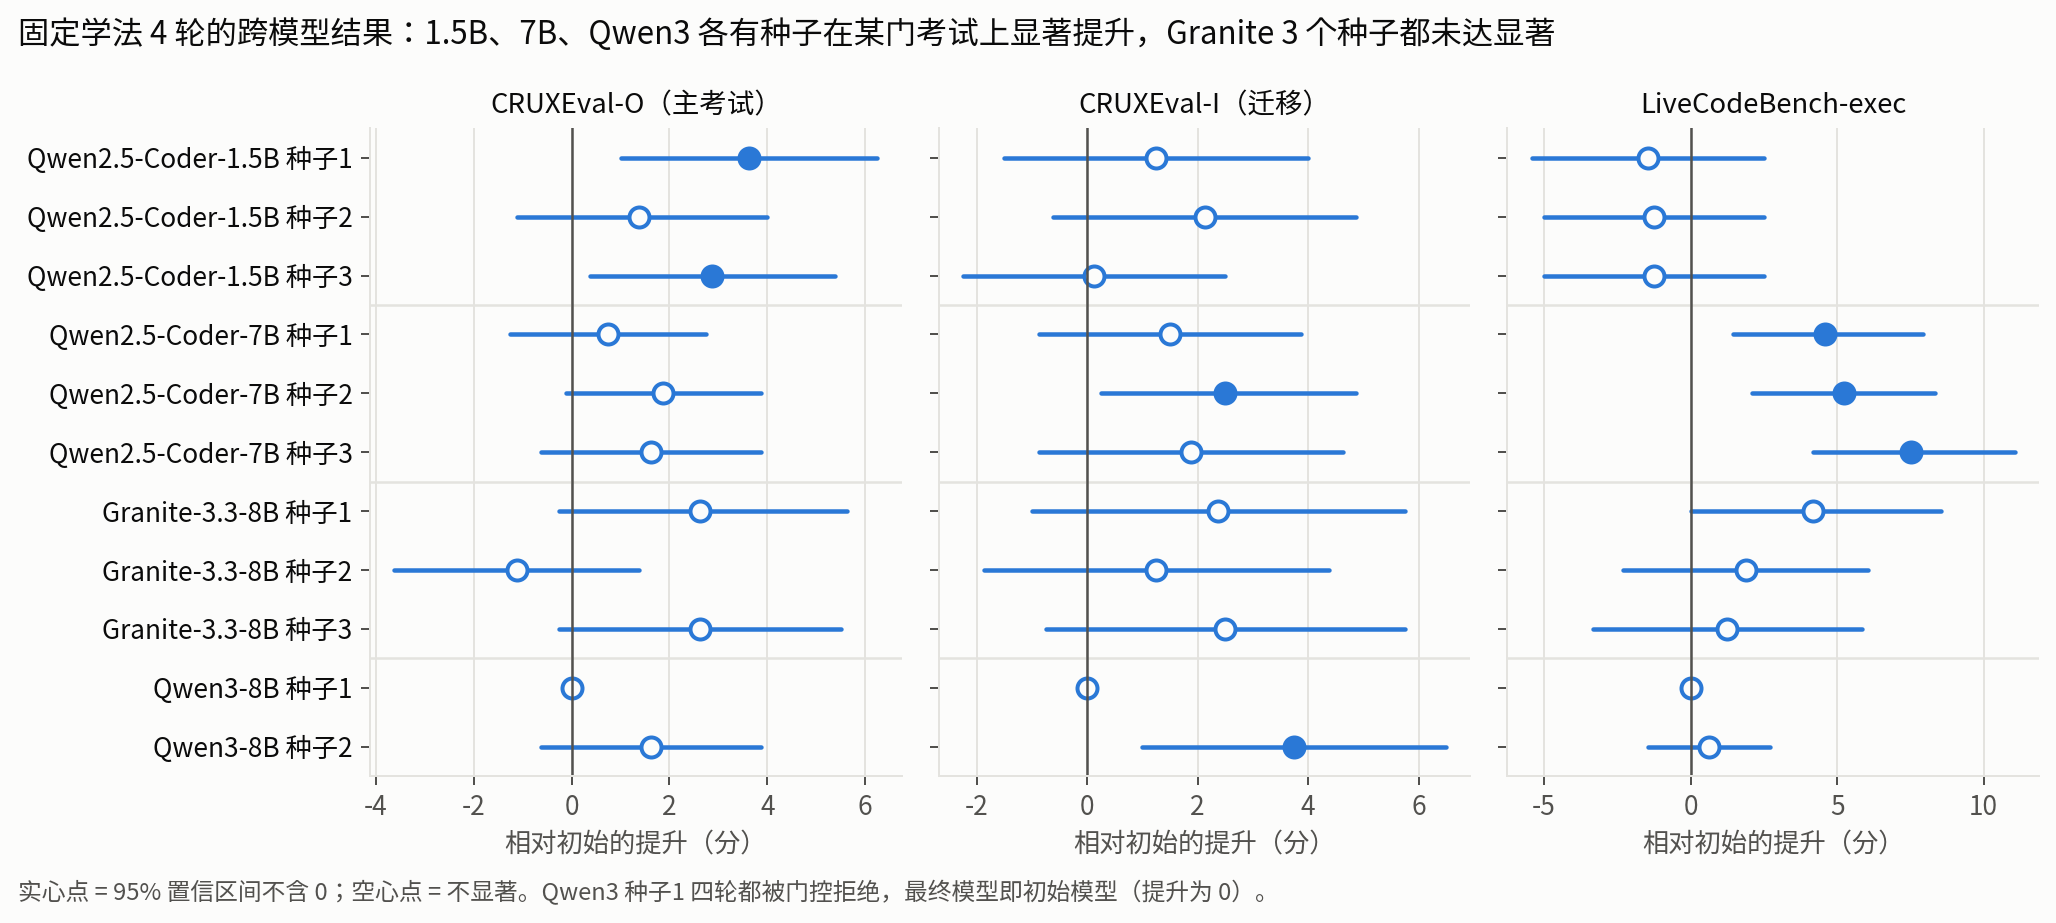
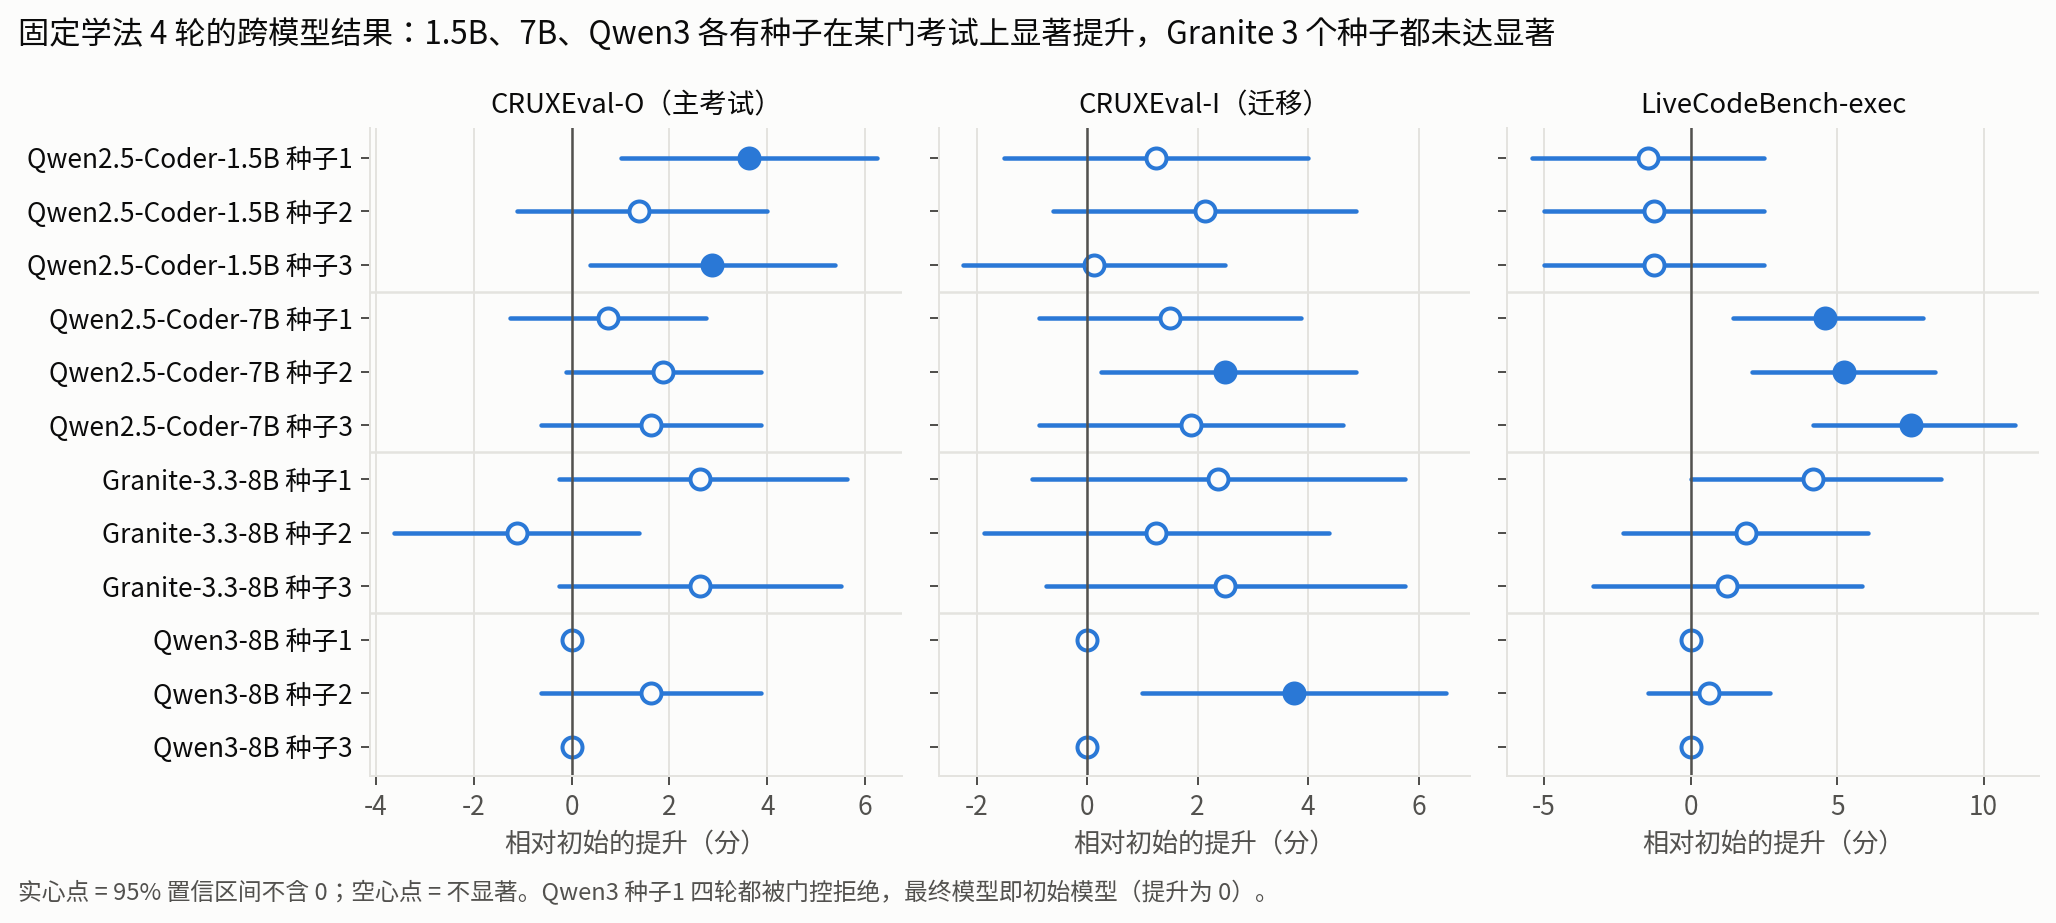
VLA rollout: rerun a phase whose workers ran out of GPU memory; Qwen3-8B fixed s3
On 10-27 another vLLM service started on GPU 0 while a VLA rollout phase was running (admission had
passed 6 min earlier); every worker there hit CUDA OOM and the run was lost in its last round.
_phase_retrying moves the failed attempt's files aside, re-admits the GPUs and reruns the phase
(oom_retries=2); non-OOM failures still raise. Three unit tests. vla_goal_fixed_s1 requeued as _r4.

Qwen3-8B fixed s3: all 4 rounds rejected by the gate (84.8 vs 82.6-84.2), final = initial.
Pooled 3 seeds: CRUX-I +1.25 [0.29, 2.17], CRUX-O +0.54, LCB +0.21 (bar not met; interim).

diff --git a/test_rsi_core.py b/test_rsi_core.py
@@ -11,6 +11,7 @@ from rsi.core.archive import Archive, Node, program_diff
 from rsi.core.curation import curate, shuffle_feedback
 from rsi.core.engine import Engine, EngineConfig
 from rsi.core.gpu import occupied
+import rsi.backends.openvla.backend as vla_backend
 from rsi.core.types import Attempt, Case, EvalRecord, Program, Receipt, Version
 from rsi.domains.code_wm.domain import CodeWorldModelDomain
 from rsi.meta.proposers import CODE_WM_COUPLING, FixedProgram, NumericSearch
@@ -198,6 +199,70 @@ class GpuAdmissionTests(unittest.TestCase):
         self.assertFalse(occupied((7425, 0)))      # parked CI context, idle
         self.assertTrue(occupied((8753, 94)))      # another user's running job
         self.assertTrue(occupied((12000, 0)))      # too large to share even if idle
+
+
+class VLAPhaseRetryTests(unittest.TestCase):
+    def _backend(self, tmp):
+        cfg = vla_backend.VLAConfig(checkpoint="ck", python="py", openvla_root="root", workdir=tmp)
+        backend = vla_backend.VLABackend(cfg)
+        call = backend._call_dir("rollout")
+        return backend, call
+
+    def _fake_phase(self, call, failures):
+        attempts = []
+
+        def phase(call_, tag, *args):
+            n = len(attempts)
+            attempts.append(n)
+            eps = call / "episodes"
+            eps.mkdir(exist_ok=True)
+            (eps / f"results-{100 + n}.jsonl").write_text(json.dumps({"id": "e1", "attempt": n}) + "\n")
+            (eps / "e1.npz").write_text(f"attempt {n}")
+            if n < len(failures):
+                log = call / f"log-{tag}0.txt"
+                log.write_text(failures[n])
+                raise RuntimeError(f"parallel_worker_failed:['{log}']")
+        return phase, attempts
+
+    def test_oom_phase_is_rerun_and_failed_attempt_set_aside(self):
+        with tempfile.TemporaryDirectory() as tmp:
+            backend, call = self._backend(tmp)
+            phase, attempts = self._fake_phase(call, ["torch.cuda.OutOfMemoryError: CUDA out of memory. Tried"])
+            backend._phase = phase
+            original, vla_backend.admit = vla_backend.admit, lambda gpus, gap: {"ok": True}
+            try:
+                backend._phase_retrying(call, "g")
+            finally:
+                vla_backend.admit = original
+            self.assertEqual(attempts, [0, 1])
+            kept = sorted(p.name for p in (call / "episodes").iterdir())
+            self.assertEqual(kept, ["e1.npz", "results-101.jsonl"])
+            self.assertEqual((call / "episodes" / "e1.npz").read_text(), "attempt 1")
+            self.assertEqual(sorted(p.name for p in (call / "discarded-g0").iterdir()),
+                             ["e1.npz", "log-g0.txt", "results-100.jsonl"])
+            self.assertEqual(backend.admissions[-1]["retry_of"], "g0")
+
+    def test_non_oom_failure_is_not_retried(self):
+        with tempfile.TemporaryDirectory() as tmp:
+            backend, call = self._backend(tmp)
+            phase, attempts = self._fake_phase(call, ["ValueError: bad spec"])
+            backend._phase = phase
+            with self.assertRaises(RuntimeError):
+                backend._phase_retrying(call, "s")
+            self.assertEqual(attempts, [0])
+
+    def test_gives_up_after_configured_retries(self):
+        with tempfile.TemporaryDirectory() as tmp:
+            backend, call = self._backend(tmp)
+            phase, attempts = self._fake_phase(call, ["CUDA out of memory"] * 3)
+            backend._phase = phase
+            original, vla_backend.admit = vla_backend.admit, lambda gpus, gap: {}
+            try:
+                with self.assertRaises(RuntimeError):
+                    backend._phase_retrying(call, "s")
+            finally:
+                vla_backend.admit = original
+            self.assertEqual(attempts, [0, 1, 2])
 
 
 class ProgramTests(unittest.TestCase):

diff --git a/rsi/backends/openvla/backend.py b/rsi/backends/openvla/backend.py
@@ -9,6 +9,7 @@ Update operators (``bc``, ``grpo``) come from the improvement program.
 from dataclasses import asdict, dataclass, field
 import json
 from pathlib import Path
+import re
 import time
 
 from ...core.gpu import admit, supervised, supervised_parallel
@@ -35,6 +36,7 @@ class VLAConfig:
     rollout_timeout: int = 12 * 3600
     train_timeout: int = 10 * 3600
     admission_gap: float = 30.0
+    oom_retries: int = 2               # re-admit and rerun a phase whose worker ran out of GPU memory
     env: dict = field(default_factory=dict)
 
 
@@ -90,6 +92,32 @@ class VLABackend:
             self.gpu_seconds["rollout"] = self.gpu_seconds.get("rollout", 0.0) + \
                 len(cfg.rollout_gpus) * (time.time() - started)
 
+    def _phase_retrying(self, call, tag, *args):
+        """Admission is checked before the rollout, but on a shared box another job can still take a GPU
+        while a phase is running (10-27: a vLLM server started on GPU 0 mid-phase and every worker there
+        ran out of memory, losing a run in its last round). A phase whose failed workers ran out of GPU
+        memory is rerun after a fresh admission. The failed attempt's files are moved aside first, so
+        each episode's row and trajectory come from one attempt."""
+        episodes_dir = call / "episodes"
+        for attempt in range(self.config.oom_retries + 1):
+            before = set(episodes_dir.iterdir()) if episodes_dir.exists() else set()
+            try:
+                return self._phase(call, tag, *args)
+            except RuntimeError as exc:
+                logs = re.findall(r"'([^']+)'", str(exc)) if str(exc).startswith("parallel_worker_failed") else []
+                oom = bool(logs) and all("CUDA out of memory" in Path(log).read_text(errors="replace")[-20000:]
+                                         for log in logs)
+                if not oom or attempt == self.config.oom_retries:
+                    raise
+                aside = call / f"discarded-{tag}{attempt}"
+                aside.mkdir()
+                for path in set(episodes_dir.iterdir()) - before:
+                    path.rename(aside / path.name)
+                for log in logs:
+                    Path(log).rename(aside / Path(log).name)
+                self.admissions.append(dict(admit(self.config.rollout_gpus, gap=self.config.admission_gap),
+                                            retry_of=f"{tag}{attempt}", failed_logs=logs))
+
     def rollout(self, version: Version, suite, episodes, max_steps=None):
         """Greedy episodes run unbatched (one env per process, several processes per GPU),
         which reproduces OpenVLA's batch-1 numerics exactly; batched generation flips
@@ -101,8 +129,8 @@ class VLABackend:
         self.admissions.append(admit(cfg.rollout_gpus, gap=cfg.admission_gap))
         greedy = [ep for ep in episodes if ep["mode"] == "greedy"]
         sampled = [ep for ep in episodes if ep["mode"] != "greedy"]
-        self._phase(call, "g", adapter, suite, greedy, max_steps, 1, cfg.greedy_procs_per_gpu)
-        self._phase(call, "s", adapter, suite, sampled, max_steps, cfg.n_envs, cfg.sample_procs_per_gpu)
+        self._phase_retrying(call, "g", adapter, suite, greedy, max_steps, 1, cfg.greedy_procs_per_gpu)
+        self._phase_retrying(call, "s", adapter, suite, sampled, max_steps, cfg.n_envs, cfg.sample_procs_per_gpu)
         rows = {}
         for path in (call / "episodes").glob("results-*.jsonl"):
             for line in path.open():

diff --git a/reports/progress/README.md b/reports/progress/README.md
@@ -1,4 +1,4 @@
-# RSI 框架实验进展（截至 2026-10-27 13:40 北京时间）
+# RSI 框架实验进展（截至 2026-10-27 17:20 北京时间）
 
 **三句话：**
 
@@ -7,7 +7,7 @@
 3. **跨模型初步结果：**
     - Qwen2.5-Coder-7B（3 个种子已齐）：没练过的 LiveCodeBench-exec 上三个种子都显著上涨（+4.6 / +5.2 / +7.5），种子平均 +5.8（95% 区间 +3.4 ~ +8.2）；主考试 CRUXEval-O 平均只有 +1.4，未达 +2 的达标线。
     - Granite-8B（3 个种子已齐）：三门考试的种子平均都在 +1.4 ~ +2.4 之间，置信区间都含 0，未证明提升。
-    - Qwen3-8B：种子 1 每一轮都没通过小测验，模型没有变差；种子 2 四轮都通过，CRUXEval-I 显著上涨 +3.75。
+    - Qwen3-8B（3 个种子已齐）：种子 1、3 每一轮的新版本都没通过小测验，模型保持原样、没有变差；种子 2 四轮都通过，CRUXEval-I 显著上涨 +3.75。种子平均 CRUXEval-I +1.25（95% 区间 +0.3 ~ +2.2），未达 +2 的门槛。
     - 能调学法的完整版在这三个模型上都还在跑。
 
 所有数字由 [`scripts/report/make_progress.py`](../../scripts/report/make_progress.py) 从 `results/` 直接生成，完整数据见 [tables.md](tables.md)。
@@ -49,11 +49,11 @@
 | Qwen2.5-Coder-7B：8 轮固定程序 vs 非递归（附录 4，复现 1.5B 的递归结论） | 百度 | 排队等卡 |
 | Granite-3.3-8B：固定程序种子 1、2、3；打乱反馈种子 1 | 百度 | 完成 |
 | Granite-3.3-8B：完整版种子 1、2 | 百度 | 进行中 |
-| Qwen3-8B：固定程序种子 1、2 | A800 | 完成（种子 1 四轮都未通过；种子 2 四轮都通过） |
-| Qwen3-8B：固定程序种子 3；完整版种子 1 | A800 | 进行中（完整版第 1 轮选中了新提出的学法） |
-| Qwen3-8B：完整版种子 2 | A800 | 排队 |
+| Qwen3-8B：固定程序种子 1、2、3 | A800 | 完成（种子 1、3 四轮都未通过；种子 2 四轮都通过） |
+| Qwen3-8B：完整版种子 1、2 | A800 | 进行中（种子 1 第 1 轮选中了新提出的学法） |
+| Qwen3-8B：完整版种子 3 | 百度 | 计划已上传，等卡 |
 | OpenVLA × LIBERO：两次基线（74.8% / 76.4%）、1 轮试运行 | A800 | 完成 |
-| OpenVLA × LIBERO：4 组 × 2 个种子，每组 3 轮 | A800 | 2 组进行中（因 CPU 过载重启过一次），6 组排队 |
+| OpenVLA × LIBERO：4 组 × 2 个种子，每组 3 轮 | A800 | 非递归种子 1 在做最终测试；固定程序种子 1 在第 3 轮被同机另一个服务挤爆显存而失败，已加"显存不足自动重试"并排在队首重跑；6 组排队 |
 | Meta CWM-32B | A800 | 只测了基线 |
 
 基线、各种子明细和 8 轮逐轮数据见 [tables.md](tables.md)。预注册文件在 [`docs/prereg/`](../../docs/prereg/)。

diff --git a/reports/progress/tables.md b/reports/progress/tables.md
@@ -38,6 +38,7 @@
 | Granite-3.3-8B | 3 | 46.12 | +2.62 [-0.25, +5.50] | +2.50 [-0.75, +5.75] | +1.25 [-3.34, +5.85] |
 | Qwen3-8B | 1 | 76.38 | +0.00 [+0.00, +0.00] | +0.00 [+0.00, +0.00] | +0.00 [+0.00, +0.00] |
 | Qwen3-8B | 2 | 76.50 | +1.62 [-0.62, +3.88] | +3.75 [+1.00, +6.50] | +0.63 [-1.46, +2.71] |
+| Qwen3-8B | 3 | 76.38 | +0.00 [+0.00, +0.00] | +0.00 [+0.00, +0.00] | +0.00 [+0.00, +0.00] |
 
 ## 跨模型合并：固定学法，种子平均的逐题配对差（分；括号内 95% bootstrap CI；达标 = 均值 ≥ 2 且下限 > 0）
 
@@ -47,7 +48,7 @@
 | --- | --- | --- | --- | --- | --- |
 | Qwen2.5-Coder-7B | 1,2,3 | +1.42 [-0.17, +3.00] | +1.96 [+0.17, +3.79] | +5.78 [+3.41, +8.21] 达标 | 全部种子 |
 | Granite-3.3-8B | 1,2,3 | +1.38 [-0.83, +3.71] | +2.04 [-0.63, +4.67] | +2.44 [-0.97, +5.85] | 全部种子 |
-| Qwen3-8B | 1,2 | +0.81 [-0.31, +1.94] | +1.88 [+0.44, +3.25] | +0.31 [-0.73, +1.36] | 中期 |
+| Qwen3-8B | 1,2,3 | +0.54 [-0.21, +1.29] | +1.25 [+0.29, +2.17] | +0.21 [-0.49, +0.90] | 全部种子 |
 
 ## 基线（初始模型，贪心解码）
 
